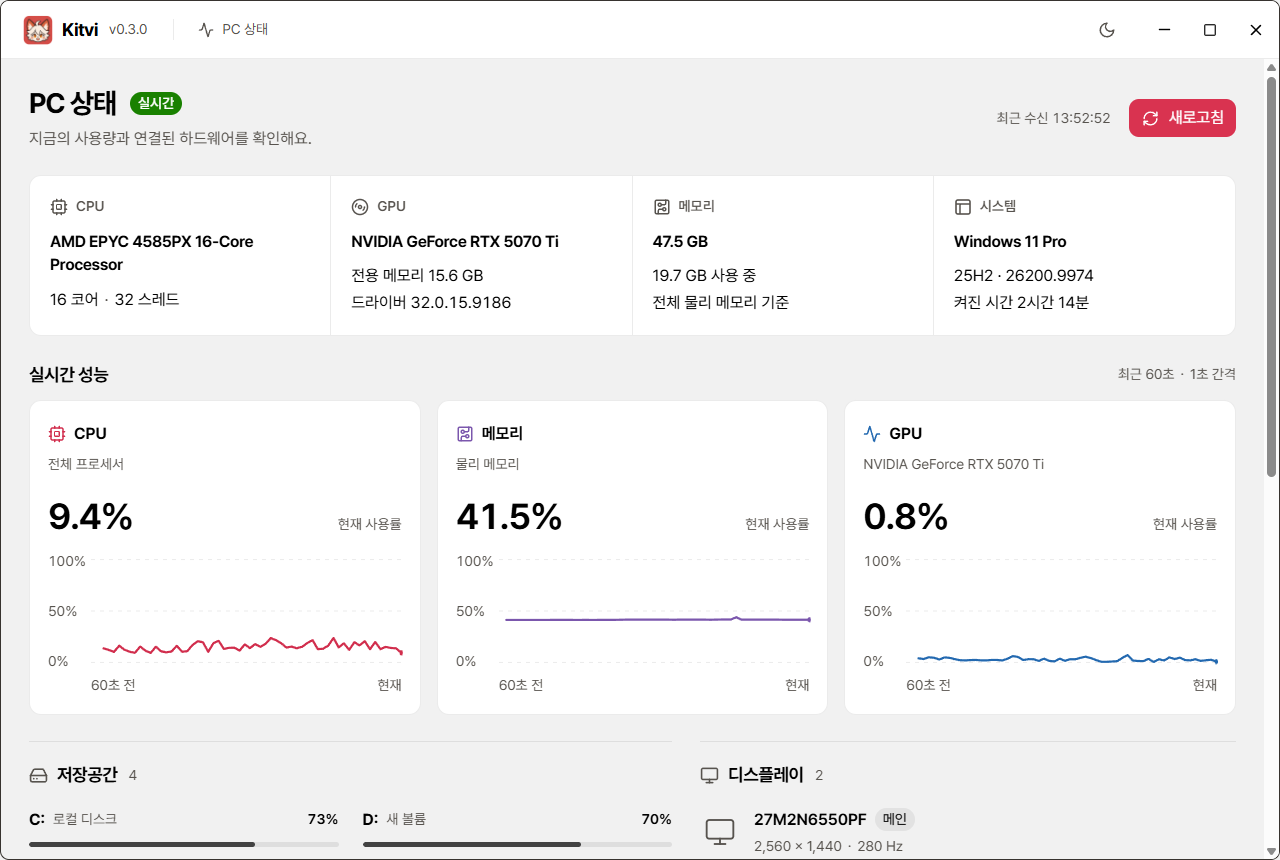
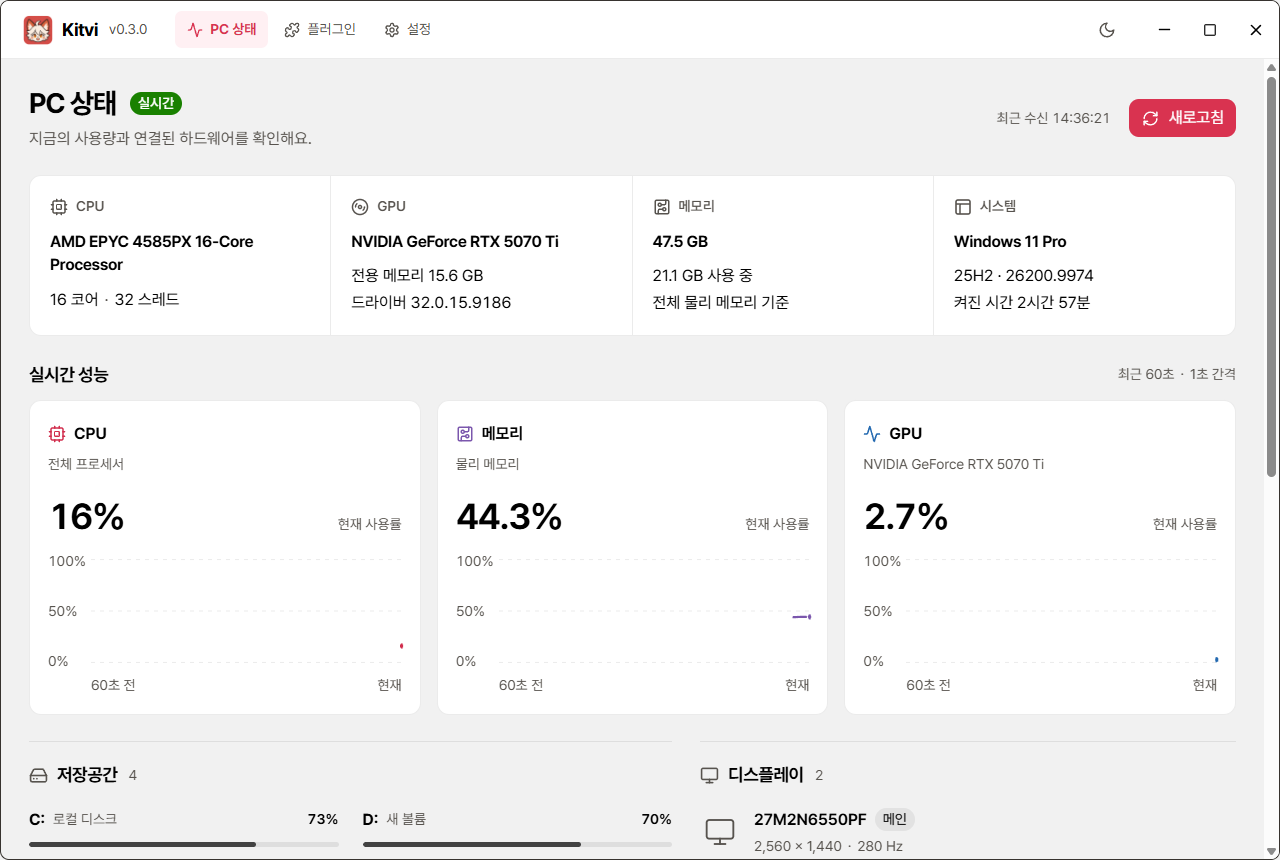
Document Kitvi 0.4.0 updates and sandboxed plugins

diff --git a/README.md b/README.md
@@ -1,93 +1,63 @@
-<p align="center">
-  <img src="assets/kitvi-mascot.png" width="200" alt="Kitvi의 SD 여우 마스코트">
-</p>
-
+<p align="center"><img src="assets/kitvi-mascot.png" width="200" alt="Kitvi SD 여우 마스코트"></p>
 <h1 align="center">Kitvi · 킷비</h1>
+<p align="center">내 PC의 지금을, 한눈에. 필요한 기능은 플러그인으로.</p>
+<p align="center"><img src="https://img.shields.io/badge/Windows-x64-0078D4?style=flat-square" alt="Windows x64"> <img src="https://img.shields.io/badge/v0.4.0-Preview-E8A44C?style=flat-square" alt="0.4.0 Preview"></p>
+<p align="center"><strong>한국어</strong> · <a href="README.en.md">English</a><br><a href="https://github.com/popop098/Kitvi/releases/download/v0.4.0/Kitvi-Setup-0.4.0-x64.exe">Windows 설치 파일</a> · <a href="https://github.com/popop098/Kitvi/releases/tag/v0.4.0">릴리스·포터블 ZIP</a> · <a href="https://github.com/popop098/Kitvi/issues/new">문제 제보</a></p>
 
-<p align="center">내 PC의 지금을, 한눈에.</p>
+Kitvi는 CPU·메모리·GPU와 Windows, 저장공간, 모니터, 장치를 확인하는 Windows용 PC 대시보드입니다. **0.4.0 Preview**부터 GitHub Releases 업데이트와 커뮤니티 플러그인을 지원합니다.
 
-<p align="center">
-  <img src="https://img.shields.io/badge/Windows-x64-0078D4?style=flat-square" alt="Windows x64">
-  <img src="https://img.shields.io/badge/v0.3.0-Preview-E8A44C?style=flat-square" alt="v0.3.0 Preview">
-  <img src="https://img.shields.io/badge/Works-offline-4D8D78?style=flat-square" alt="오프라인 실행">
-</p>
+앱 소스는 비공개이며, 이 저장소는 배포 파일·사용 안내·이슈를 관리합니다. [YT Downloader 예제와 플러그인 제작 가이드](https://github.com/popop098/kitvi-YT-downloader)는 별도 공개 저장소에서 제공합니다.
 
-<p align="center">
-  <strong>한국어</strong> · <a href="README.en.md">English</a><br>
-  <a href="https://github.com/popop098/Kitvi/releases/download/v0.3.0/Kitvi-0.3.0-win-x64.zip">Windows x64 다운로드</a> ·
-  <a href="https://github.com/popop098/Kitvi/releases/tag/v0.3.0">릴리스</a> ·
-  <a href="https://github.com/popop098/Kitvi/issues/new">문제 제보</a>
-</p>
-
-Kitvi는 CPU·메모리·GPU 사용률과 하드웨어, Windows, 저장공간, 연결 장치를 한 화면에서 확인하는 **Windows용 오프라인 PC 대시보드**입니다. 설치 프로그램 없이 압축을 풀어 실행합니다.
-
-**v0.3.0은 첫 공개 프리뷰입니다.** 하드웨어와 드라이버에 따라 일부 정보를 읽지 못할 수 있습니다. 이 저장소는 배포 파일·사용 안내·이슈를 관리하며, 앱 소스 코드는 비공개입니다.
-
-![Kitvi의 실제 Windows PC 대시보드 화면](assets/kitvi-dashboard.png)
-
-*실제 앱 실행 화면입니다. 표시되는 장치와 측정값은 PC마다 다릅니다.*
+![실제 Kitvi Windows PC 상태 화면](assets/kitvi-dashboard.png)
 
 ## 시작하기
 
-1. [Kitvi-0.3.0-win-x64.zip](https://github.com/popop098/Kitvi/releases/download/v0.3.0/Kitvi-0.3.0-win-x64.zip)을 다운로드합니다.
-2. ZIP **전체를** 새 폴더에 압축 해제합니다. 폴더 안의 파일을 함께 보관하세요.
-3. 압축을 푼 폴더에서 **`Kitvi.exe`**를 실행합니다.
+1. [Kitvi-Setup-0.4.0-x64.exe](https://github.com/popop098/Kitvi/releases/download/v0.4.0/Kitvi-Setup-0.4.0-x64.exe)를 다운로드해 설치합니다.
+2. Kitvi를 실행합니다. Node.js·.NET·WebView2를 따로 설치할 필요가 없습니다.
+3. PC 상태는 오프라인에서도 확인합니다. 설정에서 업데이트 확인 방식을 선택할 수 있습니다.
 
-Node.js·.NET·WebView2를 따로 설치할 필요가 없습니다. 다운로드 후에는 인터넷 연결 없이 사용할 수 있습니다.
-
-현재 앱 화면은 한국어이며, 사용 문서는 한국어와 영어로 제공합니다.
+**기존 0.3.0은 이번 설치 파일을 한 번 직접 설치해야 합니다.** [포터블 ZIP](https://github.com/popop098/Kitvi/releases/download/v0.4.0/Kitvi-0.4.0-win-x64.zip)은 전체를 새 폴더에 풀어 실행하세요. ZIP은 버전 확인만 지원하며 앱 안에서 새 버전을 설치하지 않습니다.
 
 | 환경 | 확인 범위 |
 | --- | --- |
 | Windows 11 x64 | 실행 및 주요 기능 검증 |
-| Windows 10 22H2 x64 | 호환성 대상이며, 별도 실기 검증은 아직 수행하지 않음 |
+| Windows 10 22H2 x64 | 호환성 대상, 별도 실기 검증 전 |
 
-현재 배포 파일은 코드 서명이 없는 프리뷰이므로 Windows 보안 경고가 나타날 수 있습니다. [공식 릴리스](https://github.com/popop098/Kitvi/releases/tag/v0.3.0)의 파일명과 [SHA256SUMS.txt](https://github.com/popop098/Kitvi/releases/download/v0.3.0/SHA256SUMS.txt)를 확인해 실행 여부를 판단하세요.
+현재 코드 서명이 없는 Preview입니다. 공식 릴리스의 [SHA256SUMS.txt](https://github.com/popop098/Kitvi/releases/download/v0.4.0/SHA256SUMS.txt)로 파일을 대조할 수 있습니다. 업데이트는 TLS·체크섬을 사용하며 게시자 코드 서명 검증은 제공하지 않습니다.
 
-## 확인할 수 있는 정보
+## PC 상태
 
 | 영역 | 제공하는 내용 |
 | --- | --- |
-| 실시간 사용률 | CPU·메모리·GPU를 1초마다 측정하고 최근 60초를 그래프로 표시 |
-| 하드웨어 | CPU·메모리 사양, GPU 이름·전용 VRAM 용량·드라이버 정보. GPU가 여러 개면 선택 가능 |
+| 실시간 사용률 | CPU·메모리·GPU를 1초마다 측정, 최근 60초 그래프 |
+| 하드웨어 | CPU·물리 메모리, GPU별 전용 VRAM·드라이버·사용률 |
 | Windows | 운영체제 정보와 가동 시간 |
 | 저장공간 | 드라이브별 용량·사용량을 5초마다 갱신 |
-| 모니터·장치 | GPU 목록·모니터·장치를 15초마다 갱신. 장치 이름·제조사 검색과 종류 필터 제공 |
-| 화면·창 | 라이트·다크 테마, 전용 창 프레임, 창 이동·크기 조절·최소화·최대화 |
+| 모니터·장치 | 모니터 모델·해상도·주사율, Windows 장치 상태를 15초마다 갱신 |
+| 화면 | Pretendard, 밝게·어둡게, 직접 제작한 창 헤더 |
 
-전용 VRAM 용량은 64비트 값으로 읽어 4GB를 넘는 GPU도 표시합니다. 간접 디스플레이·소프트웨어 어댑터로 인한 중복 GPU 항목은 걸러내며, 같은 모델의 실제 GPU가 여러 개라면 각각 유지합니다.
+GPU가 여러 개면 선택할 수 있으며 누락된 값은 0%로 바꾸지 않습니다. GPU 사용률은 해당 어댑터의 가장 바쁜 엔진을 기준으로 집계합니다. 장치의 정상 표시는 Windows가 보고한 상태이며 Bluetooth 주변 기기의 실제 연결을 추정하지 않습니다.
 
-## 데이터는 PC 안에서
+## 업데이트
 
-하드웨어 정보와 측정 이력을 외부 서버로 전송하지 않습니다. 그래프 이력은 실행 중 메모리에만 보관하며, 설정과 오류 로그는 로컬에 저장합니다. 하드웨어 스냅샷과 장치 목록은 로그에 저장하지 않습니다.
+시작 시 새 버전을 확인하고 설정에서도 수동 확인할 수 있습니다. 새 버전이 있으면 **다운로드 → 다시 시작하여 설치**를 직접 선택합니다. 진행 중인 미디어 작업이 있으면 설치를 위한 재시작을 막습니다. 자동 확인은 설정에서 끌 수 있습니다.
 
-## 자주 묻는 질문
+## 플러그인
 
-**GPU 사용률이나 일부 정보가 `—`로 나와요.**<br>
-해당 환경에서 값을 제공하지 않거나 아직 수집하지 못한 상태입니다. Kitvi는 누락 값을 0%로 바꾸지 않습니다. 실행 직후의 그래프도 수집한 구간부터 그립니다.
+플러그인 화면에서 GitHub 저장소를 입력하거나 로컬 `.kitvi-plugin.zip`을 선택하세요. 가져오기만으로 설치하지 않으며 제작자·출처·권한을 확인한 뒤 설치합니다. 켜기·끄기·삭제도 이 화면에서 관리합니다.
 
-**GPU 사용률이 작업 관리자와 달라요.**<br>
-Kitvi는 선택한 GPU의 가장 바쁜 엔진을 기준으로 사용률을 표시합니다. 수집 시점이나 작업 관리자의 엔진 설정에 따라 순간 값이 다를 수 있습니다.
+**첫 예제: [YT Downloader](https://github.com/popop098/kitvi-YT-downloader)** — 저장소 `popop098/kitvi-YT-downloader`를 가져와 설치하세요. 공식 yt-dlp 엔진 설치 후 공개 YouTube 영상 한 편을 단일 영상 파일 또는 원본 오디오로 저장합니다. 진행률과 취소를 지원합니다. 고화질 스트림 병합·MP3 변환·로그인·쿠키는 지원하지 않습니다.
 
-**장치가 정상인데 Bluetooth 기기가 연결되지 않았어요.**<br>
-장치 상태는 Windows가 보고하는 상태입니다. 주변 기기의 실제 전원이나 Bluetooth 연결 여부를 뜻하지 않습니다.
+[플러그인 제작 가이드](https://github.com/popop098/kitvi-YT-downloader/blob/main/PLUGIN_GUIDE.md)에는 SDK 1 매니페스트, 격리된 HTML/CSS/JS 화면, 호스트 API, 패키징과 GitHub Release 배포를 설명합니다. 현재 임의 Node 백엔드나 실행 파일 플러그인은 지원하지 않습니다.
 
-**자동 업데이트나 다른 도구도 있나요?**<br>
-이번 프리뷰에는 자동 업데이트, Steam 연동, 외부 플러그인, 사운드 도구가 없습니다. 온도·팬 속도·소비전력도 측정하지 않습니다. 새 버전은 [릴리스 페이지](https://github.com/popop098/Kitvi/releases)에서 직접 확인해 주세요.
+## 데이터와 연결
 
-## 문제 제보
+PC 하드웨어와 측정 이력은 외부 서버로 보내지 않습니다. 그래프는 실행 중 메모리에만 보관합니다. 설정·플러그인·오류 로그는 `%LOCALAPPDATA%\Kitvi`에 저장합니다.
 
-[이슈를 남길 때](https://github.com/popop098/Kitvi/issues/new)는 다음 정보를 함께 적어 주세요.
+새 버전 확인·플러그인 가져오기·엔진 설치에는 GitHub 통신이, 영상 조회·저장에는 YouTube와 영상 CDN 통신이 발생합니다. 다운로더 엔진은 요청할 때 공식 배포처에서 받고 SHA256을 검증합니다. 엔진 EXE는 예제 ZIP에 포함하지 않습니다.
 
-- Kitvi 버전과 Windows 버전
-- CPU·GPU 모델, 문제가 발생한 화면
-- 재현 순서와 기대한 동작, 실제로 나타난 동작
-- 필요하다면 민감한 내용을 가린 스크린샷이나 오류 내용
+## 문제 제보와 라이선스
 
-비밀번호·토큰·시리얼 번호 등 민감한 정보는 올리지 마세요. 스크린샷과 로그에 사용자 이름이나 개인 경로가 포함되어 있는지도 확인해 주세요.
+[이슈](https://github.com/popop098/Kitvi/issues/new)에 Kitvi·Windows 버전, 관련 장치 모델, 재현 순서와 실제 동작을 적어 주세요. 스크린샷·로그의 개인 경로와 민감한 정보를 가려 주세요.
 
-## 라이선스와 배포
-
-Kitvi 앱의 소스 코드는 비공개이며, Kitvi 자체는 오픈소스 라이선스로 배포하지 않습니다. 앱·브랜딩 자산의 재배포에 관한 문의는 [이슈](https://github.com/popop098/Kitvi/issues/new)로 남겨 주세요.
-
-함께 사용하는 외부 구성 요소에는 각각의 라이선스가 적용됩니다. [제3자 라이선스 고지](THIRD_PARTY_NOTICES.md)와 배포 파일에 포함된 고지를 확인해 주세요.
+Kitvi 자체와 브랜딩 자산에는 오픈소스 라이선스를 부여하지 않습니다. 외부 구성 요소의 라이선스는 [제3자 고지](THIRD_PARTY_NOTICES.md) 및 배포 파일에 포함됩니다. 예제 플러그인 코드는 별도 저장소의 MIT 라이선스를 따릅니다.

diff --git a/README.en.md b/README.en.md
@@ -1,93 +1,45 @@
-<p align="center">
-  <img src="assets/kitvi-mascot.png" width="200" alt="Kitvi's chibi fox mascot">
-</p>
+<p align="center"><img src="assets/kitvi-mascot.png" width="200" alt="Kitvi's SD fox mascot"></p>
+<h1 align="center">Kitvi</h1>
+<p align="center">Your PC at a glance. More tools through plugins.</p>
+<p align="center"><a href="README.md">한국어</a> · <strong>English</strong><br><a href="https://github.com/popop098/Kitvi/releases/download/v0.4.0/Kitvi-Setup-0.4.0-x64.exe">Windows x64 installer</a> · <a href="https://github.com/popop098/Kitvi/releases/tag/v0.4.0">Release / portable ZIP</a></p>
 
-<h1 align="center">Kitvi · 킷비</h1>
+Kitvi is a Windows PC dashboard for live CPU, memory and GPU usage, hardware, Windows uptime, storage, monitors and devices. **0.4.0 Preview** adds GitHub Releases updates and sandboxed community plugins. The application UI is currently Korean.
 
-<p align="center">Your PC, at a glance.</p>
+This public repository contains releases, documentation and issues; the application source remains private. The [YT Downloader example and plugin guide](https://github.com/popop098/kitvi-YT-downloader) are public separately.
 
-<p align="center">
-  <img src="https://img.shields.io/badge/Windows-x64-0078D4?style=flat-square" alt="Windows x64">
-  <img src="https://img.shields.io/badge/v0.3.0-Preview-E8A44C?style=flat-square" alt="v0.3.0 Preview">
-  <img src="https://img.shields.io/badge/Works-offline-4D8D78?style=flat-square" alt="Works offline">
-</p>
-
-<p align="center">
-  <a href="README.md">한국어</a> · <strong>English</strong><br>
-  <a href="https://github.com/popop098/Kitvi/releases/download/v0.3.0/Kitvi-0.3.0-win-x64.zip">Download for Windows x64</a> ·
-  <a href="https://github.com/popop098/Kitvi/releases/tag/v0.3.0">Release</a> ·
-  <a href="https://github.com/popop098/Kitvi/issues/new">Report an issue</a>
-</p>
-
-Kitvi is an **offline PC dashboard for Windows** that brings CPU, memory, and GPU usage together with hardware, Windows, storage, and device information. Extract the archive and run the app; there is no installer.
-
-**v0.3.0 is the first public preview.** Some information may be unavailable depending on your hardware and drivers. This repository hosts releases, documentation, and issues. The application source code is private.
-
-![The Kitvi dashboard running on a real Windows PC](assets/kitvi-dashboard.png)
-
-*An actual app screenshot. Devices and readings will vary between PCs.*
+![Actual Windows dashboard](assets/kitvi-dashboard.png)
 
 ## Get started
 
-1. Download [Kitvi-0.3.0-win-x64.zip](https://github.com/popop098/Kitvi/releases/download/v0.3.0/Kitvi-0.3.0-win-x64.zip).
-2. Extract the **entire ZIP** into a new folder. Keep all of its files together.
-3. Run **`Kitvi.exe`** from the extracted folder.
+1. Download and run the [0.4.0 installer](https://github.com/popop098/Kitvi/releases/download/v0.4.0/Kitvi-Setup-0.4.0-x64.exe).
+2. Launch Kitvi. No separate Node.js, .NET or WebView2 installation is needed.
+3. PC metrics work offline. Update checks can be configured in Settings.
 
-You do not need to install Node.js, .NET, or WebView2 separately. After downloading, the app works without an internet connection.
+**0.3.0 users must manually install this release once.** The [portable ZIP](https://github.com/popop098/Kitvi/releases/download/v0.4.0/Kitvi-0.4.0-win-x64.zip) must be fully extracted to a new folder. Portable builds check versions but do not update in place.
 
-The current app interface is in Korean. Documentation is available in Korean and English.
+Windows 11 x64 has been tested. Windows 10 22H2 x64 is a compatibility target and has not been separately tested on hardware. This Preview is unsigned; verify files using [SHA256SUMS.txt](https://github.com/popop098/Kitvi/releases/download/v0.4.0/SHA256SUMS.txt). Updates use TLS/checksums, without publisher code-signature verification.
 
-| Environment | Validation |
-| --- | --- |
-| Windows 11 x64 | App launch and main features tested |
-| Windows 10 22H2 x64 | Compatibility target; not yet validated on a separate machine |
+## Features
 
-This preview is unsigned, so Windows may show a security warning. Check the file name and [SHA256SUMS.txt](https://github.com/popop098/Kitvi/releases/download/v0.3.0/SHA256SUMS.txt) on the [official release](https://github.com/popop098/Kitvi/releases/tag/v0.3.0) before deciding whether to run it.
+- CPU, memory and per-GPU usage every second with 60-second graphs; 64-bit dedicated VRAM and driver versions.
+- Windows information/uptime, storage every five seconds, monitor/device inventory every fifteen seconds.
+- GPU selector, explicit missing values, device search and filtering. Device status is Windows-reported status, not a Bluetooth connectivity guess.
+- Pretendard, light/dark appearance and custom frameless window controls.
+- Startup/manual release checks; explicit download and restart installation. Active media work blocks update restart.
+- Plugin permission preview, install from GitHub Releases or local ZIP, enable/disable/remove.
 
-## What you can see
+## Plugins
 
-| Area | Included information |
-| --- | --- |
-| Live usage | CPU, memory, and GPU readings every second, with a 60-second history graph |
-| Hardware | CPU and memory specifications, GPU name, dedicated VRAM, and driver details. Select a GPU when more than one is present |
-| Windows | Operating system information and uptime |
-| Storage | Capacity and usage for each drive, refreshed every 5 seconds |
-| Monitors and devices | GPU inventory, monitors, and devices refreshed every 15 seconds. Search devices by name or manufacturer and filter by type |
-| Appearance and window | Light and dark themes, a custom window frame, move, resize, minimize, and maximize controls |
+Enter `popop098/kitvi-YT-downloader` in Plugins, fetch it and review permissions before installing. The example uses the host's official yt-dlp engine to save a public single YouTube video as a combined video file or original audio. It includes progress and cancellation, without stream merging, MP3 conversion, login or cookies. The engine binary is fetched from upstream only on request and its SHA256 is verified.
 
-Dedicated VRAM is read as a 64-bit value, including capacities above 4GB. Duplicate entries from indirect displays and software adapters are filtered out. Multiple physical GPUs of the same model remain separate.
+The [SDK 1 authoring guide](https://github.com/popop098/kitvi-YT-downloader/blob/main/PLUGIN_GUIDE.md) covers manifests, isolated HTML/CSS/JS, scoped host capabilities, packaging and Release distribution. Arbitrary Node backends, executables and shell commands are not supported by this SDK.
 
-## Your data stays on your PC
+## Data and network
 
-Kitvi does not upload hardware information or measurement history to external servers. Graph history stays in memory while the app is running. Settings and error logs are stored locally; logs do not include hardware snapshots or device inventories.
+Hardware and metric history are not uploaded. Graph history stays in memory; settings, plugins and error logs stay in `%LOCALAPPDATA%\Kitvi`. Update/plugin/engine operations contact GitHub. Video operations contact YouTube and its CDNs. The plugin ZIP bundles no engine executable.
 
-## Frequently asked questions
+## Feedback and licenses
 
-**Why do GPU usage or other values show `—`?**<br>
-The value is unavailable in your environment or has not been collected yet. Kitvi does not replace missing readings with 0%. On startup, graphs begin with the samples actually collected.
+[Report an issue](https://github.com/popop098/Kitvi/issues/new) with Kitvi/Windows versions, relevant hardware, steps and observed behavior. Redact personal paths or sensitive information from logs and screenshots.
 
-**Why does GPU usage differ from Task Manager?**<br>
-Kitvi shows the busiest engine on the selected GPU. Sampling time and Task Manager's engine settings can produce different momentary readings.
-
-**A device says it is working, but my Bluetooth peripheral is disconnected.**<br>
-Device status is the status reported by Windows. It does not indicate a peripheral's actual power or Bluetooth connection state.
-
-**Are updates or other tools included?**<br>
-This preview does not include automatic updates, Steam integration, external plugins, or sound tools. Temperature, fan speed, and power consumption are not measured. Check the [releases page](https://github.com/popop098/Kitvi/releases) for new versions.
-
-## Report an issue
-
-When [opening an issue](https://github.com/popop098/Kitvi/issues/new), please include:
-
-- Your Kitvi and Windows versions
-- CPU and GPU models, and the affected screen
-- Steps to reproduce, expected behavior, and actual behavior
-- A redacted screenshot or error message, if useful
-
-Do not upload passwords, tokens, serial numbers, or other sensitive information. Check screenshots and logs for user names and private file paths before sharing them.
-
-## Licensing and distribution
-
-Kitvi's application source code is private, and Kitvi itself is not released under an open-source license. For questions about redistributing the app or branding assets, please [open an issue](https://github.com/popop098/Kitvi/issues/new).
-
-Third-party components retain their respective licenses. See [Third-party notices](THIRD_PARTY_NOTICES.md) and the notices included with the release.
+Kitvi and its branding are not open-source licensed. Third-party licenses are included with releases and summarized in [THIRD_PARTY_NOTICES.md](THIRD_PARTY_NOTICES.md). The example plugin's original code is MIT-licensed separately.

diff --git a/release-notes-v0.4.0.md b/release-notes-v0.4.0.md
@@ -1,0 +1,29 @@
+# Kitvi 0.4.0 · Preview
+
+## 새 기능
+
+- 시작 시 GitHub Releases의 새 버전 확인. 설정에서 자동 확인 설정과 수동 확인 제공.
+- 설치형에서는 업데이트 다운로드 후 사용자가 다시 시작해 설치. 다운로드 중인 작업이 있으면 재시작 설치를 막습니다.
+- 플러그인 관리: GitHub Releases 또는 로컬 `.kitvi-plugin.zip` 가져오기, 권한 확인 후 설치, 켜기·끄기·삭제.
+- SDK 1: 격리된 웹 화면과 `storage`·`downloads`·`media` 호스트 API. 플러그인에 Node나 임의 명령 실행 API를 제공하지 않습니다.
+- [YT Downloader 예제와 제작 가이드](https://github.com/popop098/kitvi-YT-downloader). 공식 yt-dlp 엔진 설치, 공개 YouTube 영상 정보 조회, 단일 영상/원본 오디오 저장, 진행률과 취소.
+
+## 설치 및 업데이트
+
+자동 업데이트를 사용하려면 **Kitvi-Setup-0.4.0-x64.exe**를 설치하세요. 기존 0.3.0에는 업데이트 기능이 없어 이번 설치 파일을 한 번 직접 실행해야 합니다. 포터블 ZIP도 버전 확인은 가능하지만 앱 안에서 설치할 수는 없습니다.
+
+`latest.yml`, 설치 EXE, blockmap은 다음 업데이트를 위한 배포 메타데이터입니다. 다운로드와 재시작은 사용자 선택이며 실행 중인 작업을 강제로 종료하지 않습니다.
+
+코드 서명이 없는 Preview입니다. TLS 및 배포 체크섬 검증을 사용하지만 게시자 코드 서명 검증은 제공하지 않습니다. SHA256SUMS.txt로 파일을 대조할 수 있습니다.
+
+PC 상태는 로컬에서 처리합니다. 버전 확인·플러그인 가져오기·엔진 설치에는 GitHub, 영상 조회·저장에는 YouTube 및 영상 CDN 통신이 발생합니다. PC 하드웨어 정보나 측정 이력을 업로드하지 않습니다.
+
+Windows 11 x64에서 검증했습니다. Windows 10 22H2 x64는 호환성 대상이며 별도 실기 검증 전입니다. 설치된 이전 버전에서 실제 다음 버전으로 교체하는 장기 업데이트 경로는 후속 릴리스에서 계속 검증합니다.
+
+## English
+
+Adds startup/manual GitHub Release checks, an NSIS installer with explicit download/restart updates, sandboxed SDK 1 plugin management, and the public YT Downloader example. Install the Setup EXE once to migrate from 0.3.0 or portable ZIP. Portable builds check versions but do not update in place.
+
+The example downloads official yt-dlp only on request and verifies its upstream SHA256. It supports public single YouTube videos, combined video files or original audio, progress and cancellation. No cookies, playlists, FFmpeg merging or MP3 conversion. The app source remains private; the example plugin and guide are public.
+
+Unsigned Preview; TLS/checksums are provided, publisher signing is not. PC metrics stay local. Update/plugin/engine operations contact GitHub; video operations contact YouTube/CDNs. Windows 11 x64 tested; Windows 10 22H2 x64 remains a compatibility target.

diff --git a/THIRD_PARTY_NOTICES.md b/THIRD_PARTY_NOTICES.md
@@ -23,3 +23,5 @@ Astryx CLI is a development tool and is not bundled in the application renderer.
 이 문서는 외부 구성 요소의 고지이며, Kitvi 앱이나 브랜딩 자산에 오픈소스 라이선스 또는 별도 재배포 권한을 부여하지 않습니다. 앱 소스 코드는 비공개입니다.
 
 This document provides third-party notices. It does not grant an open-source license or separate redistribution rights to the Kitvi application or branding assets. The application source code is private.
+
+0.4.0: electron-updater / builder-util-runtime, yauzl, semver 및 런타임 의존성의 개별 MIT·ISC 고지는 배포 파일의 resources/licenses/npm에 포함됩니다. yt-dlp는 번들하지 않으며 별도 요청 시 공식 배포본을 다운로드합니다. 해당 바이너리의 upstream 라이선스가 별도로 적용됩니다. / Runtime dependency notices are included in resources/licenses/npm; yt-dlp is obtained separately on request under its upstream license. [yt-dlp license](https://github.com/yt-dlp/yt-dlp#license)
